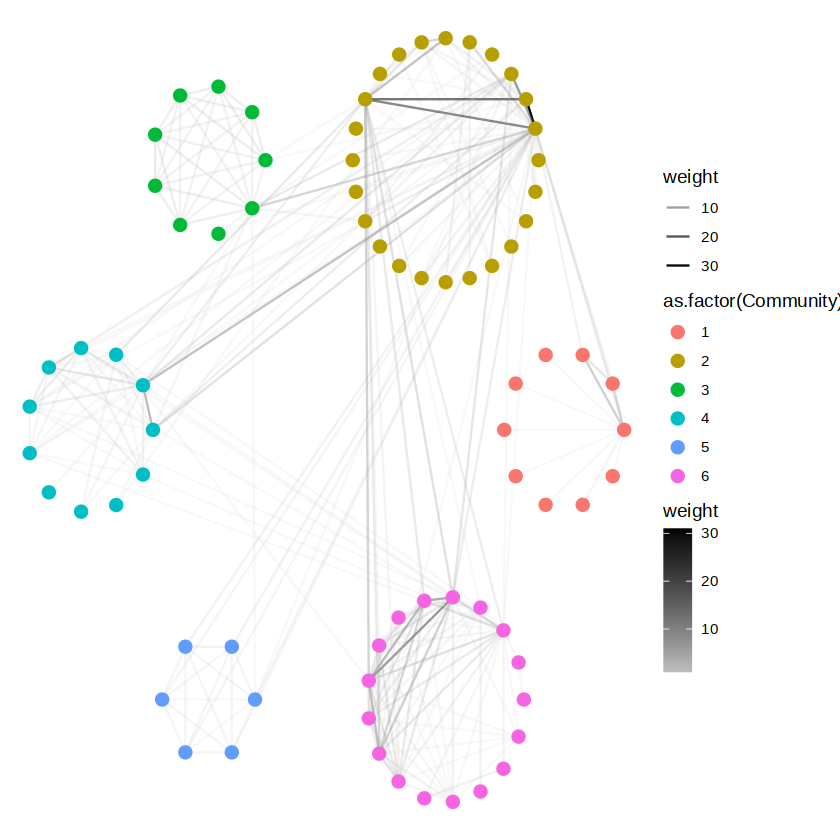
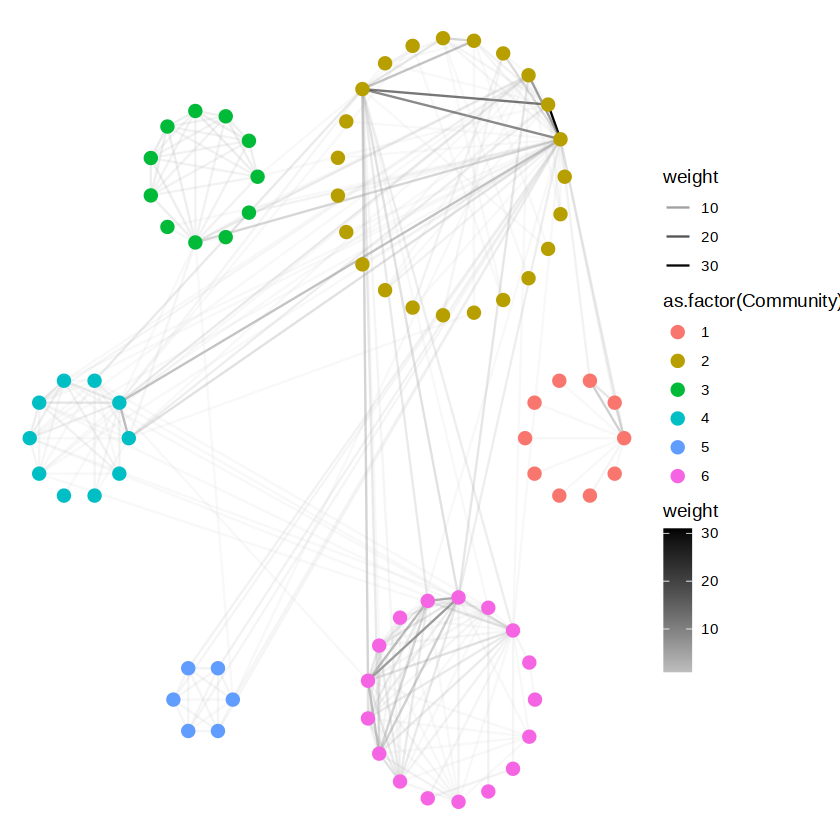
fixed function

diff --git a/visulization/README.md b/visulization/README.md
@@ -284,7 +284,7 @@ c=membership(louvain_result)[vertex_attr(g,'name')]
 vertex_attr(g,'Community')=c
 
 # assign coordinates to vertexes and visualize the network
-node_coords=layout_circular_community(c,R=10,k=0.8)
+node_coords=layout_circular_community(c,R=15,k=0.3)
 
 p=ggraph(g,layout='manual',x=node_coords[vertex_attr(g,'name'),'x'],y=node_coords[vertex_attr(g,'name'),'y'])+
     geom_edge_fan2(aes(color=weight,alpha=weight))+
